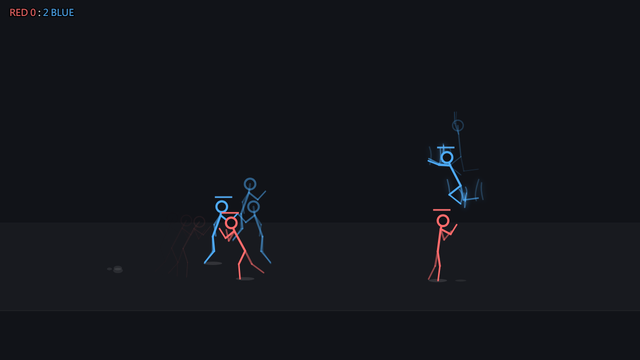
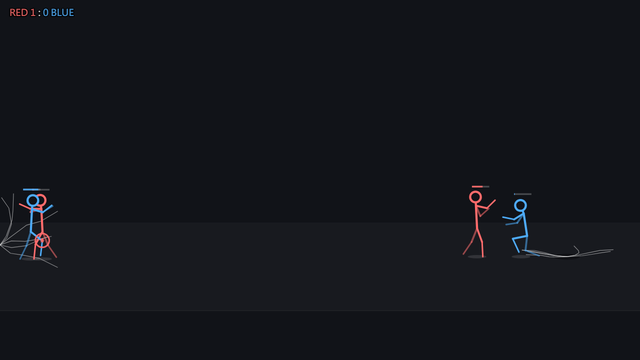
docs: re-record the pictures and demo, and fix the flash wording (#526)
* docs: re-record the pictures and demo, and fix the README's flash wording

The fixes for #493-#508 change what the fight looks like and shift the
random sequence, so demo.gif and every picture in docs/images/ are
recorded again. demo.gif uses seed 19, whose scan shows all eight styles.
styles-magic moves to seed 9 and items to seed 4, so each clip again shows
what its caption names, and Show score moves to seed 2, which reads
RED 1 : 0 BLUE after a red win, as its caption says.

README.md names the energy beam, not the blast, as the source of the
flash, and all three READMEs say the setting also hides the dash speed
lines. AGENTS.md says the check covers only the GIFs, so each still is
looked at by hand.

Closes #509

* docs: rewrap the Reduce flashing paragraph at 80 columns

---------

diff --git a/AGENTS.md b/AGENTS.md
@@ -47,7 +47,9 @@ item drop or move no longer shows needs another seed or start in the list.
 Then run the check: it replays each GIF in the browser, as the recorder does,
 and fails when an event its `shows` field names (the caption's moves, a
 flash, the item that drops, a fighter launched by the click) does not happen
-in the clip.
+in the clip. The check covers only the GIFs: nothing checks a still PNG, so
+look at each one against its caption yourself (the score in Show score, the
+crown in King).
 
 ```bash
 node scripts/record-settings.mjs                  # every picture

diff --git a/README.md b/README.md
@@ -71,9 +71,9 @@ off.
 ### Reduce flashing and screen shake
 
 "Reduce flashing and screen shake" is on by default: it hides the
-full-screen white flash of energy blasts and lightning and the speed lines of
-big hits, and stops the screen shaking. Turn it off for the full comic look,
-as below.
+full-screen white flash of energy beams and lightning, the speed lines of big
+hits and dashes, and stops the screen shaking. Turn it off for the full comic
+look, as below.
 
 ![The full comic look with flashes, speed lines and screen shake](docs/images/reduce-motion-off.gif)
 

diff --git a/README.zh-TW.md b/README.zh-TW.md
@@ -61,7 +61,7 @@
 
 ### 減少閃光與畫面震動
 
-「減少閃光與畫面震動」預設開啟：它會隱藏氣功波和雷擊的全螢幕白色閃光、重擊的速度線，
+「減少閃光與畫面震動」預設開啟：它會隱藏氣功波和雷擊的全螢幕白色閃光、重擊和衝刺的速度線，
 並停止畫面震動。關掉它就是完整的漫畫效果，如下圖。
 
 ![完整漫畫效果：閃光、速度線和畫面震動](docs/images/reduce-motion-off.gif)

diff --git a/README.zh-CN.md b/README.zh-CN.md
@@ -61,7 +61,7 @@
 
 ### 减少闪光与画面震动
 
-“减少闪光与画面震动”默认开启：它会隐藏气功波和雷击的全屏白色闪光、重击的速度线，
+“减少闪光与画面震动”默认开启：它会隐藏气功波和雷击的全屏白色闪光、重击和冲刺的速度线，
 并停止画面震动。关掉它就是完整的漫画效果，如下图。
 
 ![完整漫画效果：闪光、速度线和画面震动](docs/images/reduce-motion-off.gif)
